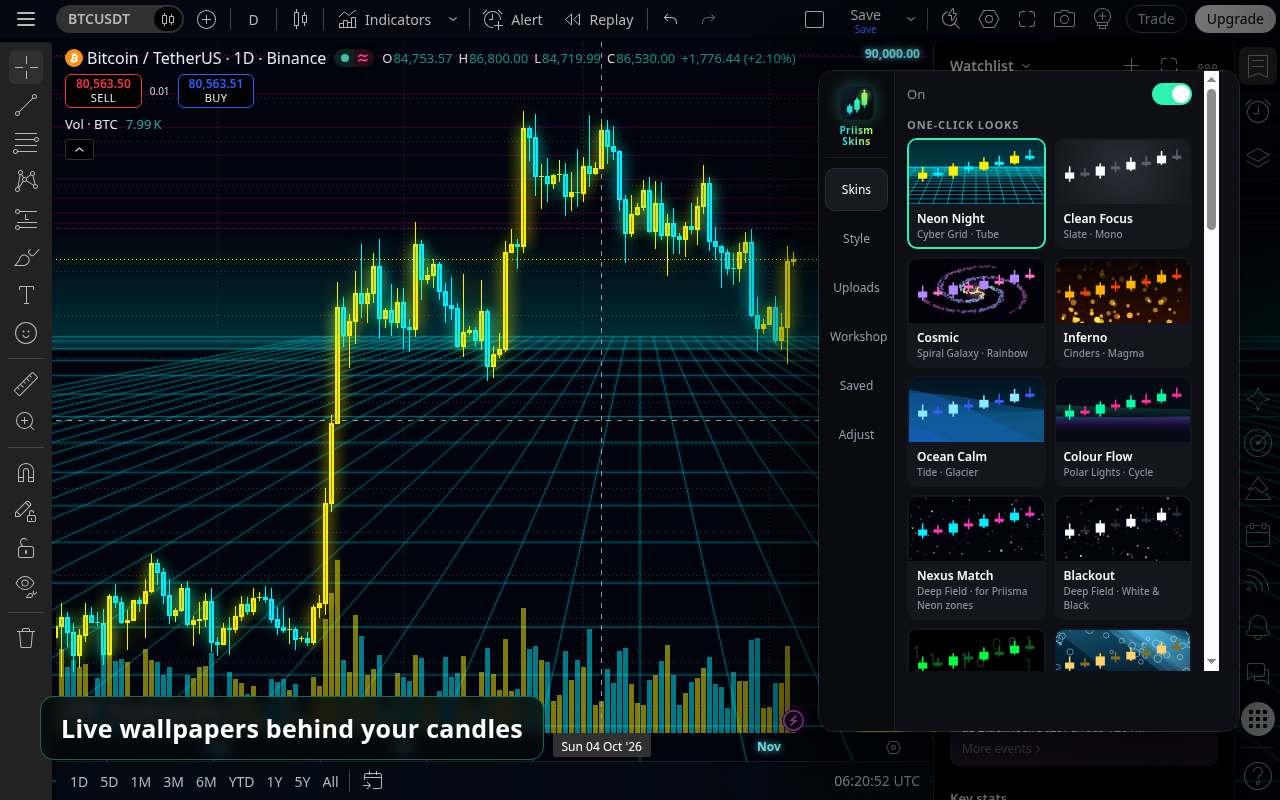
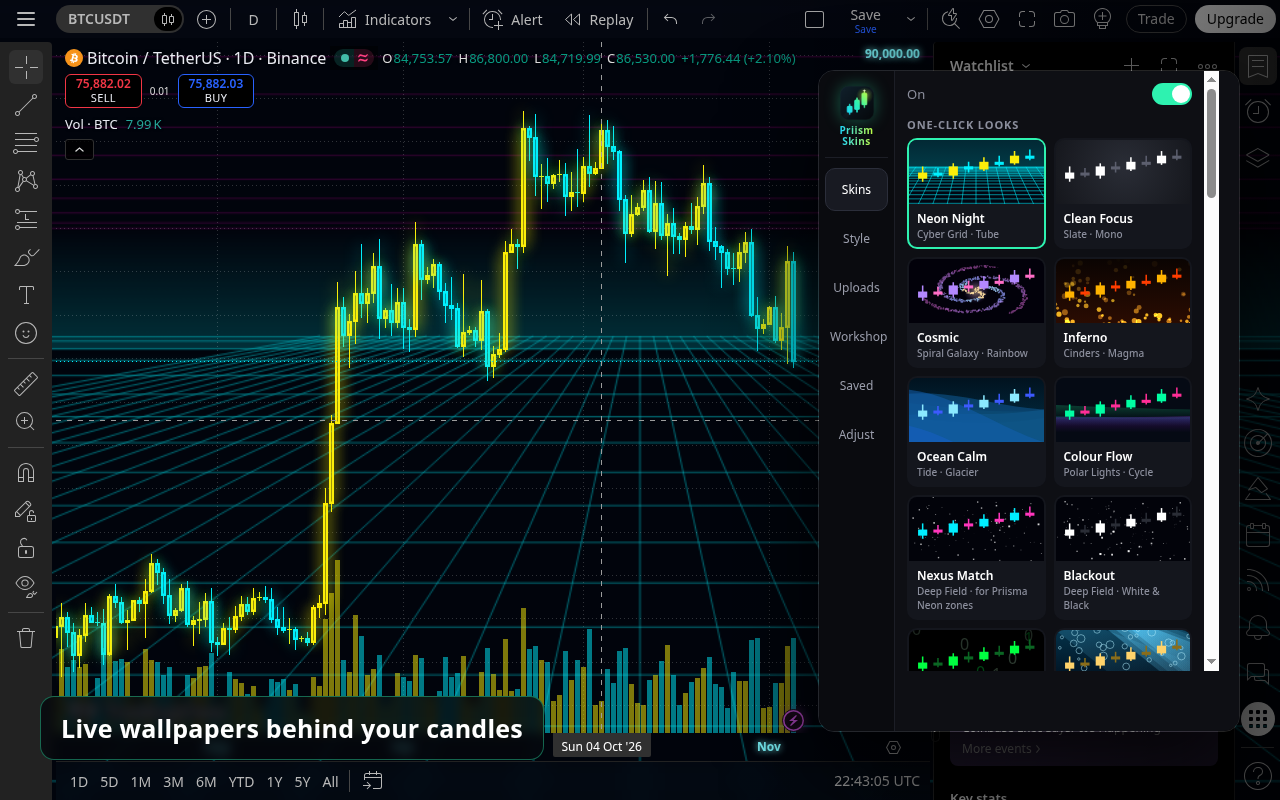
Live clip: custom length up to 2 min, auto-download, stop-early badge (v0.1.17)
- Length: presets 5s/10s/30s/1min/2min plus a custom seconds box (2-120).
- Bitrate steps down with length so long clips stay shareable.
- Every clip is saved by the page itself when recording ends, so the popup
  can be closed (it closes when you click away and used to lose the file).
- On-chart countdown badge; click it to stop and save early. Not in the recording.

Tested live: popup closed right after Record still downloads a valid WebM;
17s auto-save; stop-early; 9999s clamps to 120s (10/10).

diff --git a/src/content.js b/src/content.js
@@ -963,6 +963,7 @@
   // read, so for those the clip shows the chart + watermark moving but not the uploaded wallpaper. A clip is bigger
   // than a PNG, so we cap it (default ~5s) and downscale to keep it shareable.
   let clipRec = null;
+  const MAX_CLIP_SECONDS = 120;
   async function captureClip(seconds) {
     if (!cfg.enabled) return { ok: false, reason: "Turn Priism Skins on first." };
     if (clipRec) return { ok: false, reason: "Already recording a clip." };
@@ -982,25 +983,50 @@
     const mimes = ["video/webm;codecs=vp9", "video/webm;codecs=vp8", "video/webm"];
     const mime = mimes.find((m) => MediaRecorder.isTypeSupported && MediaRecorder.isTypeSupported(m)) || "";
     let rec;
-    try { rec = new MediaRecorder(stream, mime ? { mimeType: mime, videoBitsPerSecond: 6_000_000 } : undefined); }
+    // Any length from 2s to 2 minutes. Longer clips use a lower bitrate so the file stays shareable
+    // (about 4.5 MB for 10s, 10 MB for 60s, 15 MB for 2 min).
+    const dur = Math.max(2, Math.min(MAX_CLIP_SECONDS, +seconds || 5));
+    const bps = dur <= 10 ? 6_000_000 : dur <= 30 ? 3_500_000 : dur <= 60 ? 2_000_000 : 1_000_000;
+    try { rec = new MediaRecorder(stream, mime ? { mimeType: mime, videoBitsPerSecond: bps } : undefined); }
     catch { return { ok: false, reason: "Your browser can't record clips." }; }
     const chunks = [];
     rec.ondataavailable = (e) => { if (e.data && e.data.size) chunks.push(e.data); };
     clipRec = rec;
-    const dur = Math.max(2, Math.min(10, +seconds || 5));
+    // Every clip is saved by the page itself the moment it ends. The popup closes when you click away,
+    // so it must never be the thing that holds the file.
+    const autoSave = true;
+    // A small countdown badge on the chart. Click it to stop early. It is not part of the recording.
+    const badge = document.createElement("div");
+    badge.style.cssText = "position:fixed;z-index:2147483647;top:14px;left:50%;transform:translateX(-50%);padding:7px 14px;border-radius:999px;background:rgba(10,12,18,.88);color:#fff;font:600 13px system-ui,sans-serif;border:1px solid rgba(255,80,80,.7);cursor:pointer;box-shadow:0 6px 24px rgba(0,0,0,.5)";
+    badge.title = "Click to stop and save now";
+    document.documentElement.appendChild(badge);
+    const t0 = performance.now();
+    const paint = () => { const left = Math.max(0, Math.ceil(dur - (performance.now() - t0) / 1000)); badge.textContent = `\u25CF Recording ${left}s \u00B7 click to stop`; };
+    paint(); const badgeTimer = setInterval(paint, 250);
     return await new Promise((resolve) => {
-      let rafId = 0, done = false;
+      let rafId = 0, done = false, stopTimer = 0;
+      const stop = () => { clearTimeout(stopTimer); try { rec.state !== "inactive" && rec.stop(); } catch {} };
+      badge.onclick = stop;
+      const cleanup = () => { done = true; cancelAnimationFrame(rafId); clearTimeout(stopTimer); clearInterval(badgeTimer); badge.remove(); clipRec = null; };
       const draw = () => { if (done) return; try { compositeFrame(g, box, dpr, wmImg); } catch {} rafId = requestAnimationFrame(draw); };
       rec.onstop = async () => {
-        done = true; cancelAnimationFrame(rafId); clipRec = null;
+        cleanup();
         try { stream.getTracks().forEach((t) => t.stop()); } catch {}
         if (!chunks.length) return resolve({ ok: false, reason: "The browser blocked recording (a cross-origin chart)." });
         const blob = new Blob(chunks, { type: mime || "video/webm" });
+        if (autoSave) {
+          const q = parseTitle(), name = `priism-${((q && q.sym) || "chart").replace(/[^\w-]+/g, "")}-${Math.round((performance.now() - t0) / 1000)}s.webm`;
+          const url = URL.createObjectURL(blob), a = document.createElement("a");
+          a.href = url; a.download = name; document.documentElement.appendChild(a); a.click(); a.remove();
+          setTimeout(() => URL.revokeObjectURL(url), 60000);
+          flash("Clip saved to your downloads");
+          return resolve({ ok: true, saved: true, name, mediaMissed, bytes: blob.size, w: W, h: H });
+        }
         resolve({ ok: true, url: await blobToDataURL(blob), mediaMissed, bytes: blob.size, w: W, h: H });
       };
-      rec.onerror = () => { done = true; cancelAnimationFrame(rafId); clipRec = null; resolve({ ok: false, reason: "Recording failed." }); };
-      try { rec.start(); draw(); setTimeout(() => { try { rec.state !== "inactive" && rec.stop(); } catch {} }, dur * 1000); }
-      catch { done = true; clipRec = null; resolve({ ok: false, reason: "Recording failed." }); }
+      rec.onerror = () => { cleanup(); resolve({ ok: false, reason: "Recording failed." }); };
+      try { rec.start(); draw(); stopTimer = setTimeout(stop, dur * 1000); }
+      catch { cleanup(); resolve({ ok: false, reason: "Recording failed." }); }
     });
   }
 

diff --git a/popup/popup.js b/popup/popup.js
@@ -756,18 +756,25 @@ if ($("snapBtn")) $("snapBtn").onclick = async () => {
 
 // ---------- live clip (short animated WebM of the chart + moving wallpaper) ----------
 let clipSecs = 5;
-if ($("clipLen")) seg("clipLen", [[3, "3s"], [5, "5s"], [8, "8s"]], () => clipSecs, (v) => { clipSecs = v; });
+if ($("clipLen")) seg("clipLen", [[5, "5s"], [10, "10s"], [30, "30s"], [60, "1 min"], [120, "2 min"]], () => clipSecs, (v) => { clipSecs = v; if ($("clipCustom")) $("clipCustom").value = ""; });
+// a custom length (2-120 s) overrides the preset
+const clipLength = () => { const c = Math.round(+($("clipCustom") && $("clipCustom").value)); return c >= 2 ? Math.min(120, c) : clipSecs; };
 if ($("clipBtn")) $("clipBtn").onclick = async () => {
   const msg = $("clipMsg"), prev = $("clipPreview"), vid = $("clipVid"), btn = $("clipBtn");
   const show = (t, ok) => { msg.style.display = ""; msg.textContent = t; msg.style.color = ok === false ? "#ff8a8a" : ""; };
   if (!EXT_MODE || IS_TAB) return show("Open this on a TradingView chart tab to record.", false);
+  const secs = clipLength();
   prev.style.display = "none"; btn.disabled = true;
-  let left = clipSecs; show(`Recording… ${left}s`);
-  const tick = setInterval(() => { left--; if (left > 0) show(`Recording… ${left}s`); }, 1000);
-  const r = await tabMsgAnyFrame({ ws: "clip", seconds: clipSecs });
+  let left = secs; show(`Recording ${secs}s. You can close this panel; the clip downloads by itself when it ends.`);
+  const tick = setInterval(() => { left--; }, 1000);
+  const r = await tabMsgAnyFrame({ ws: "clip", seconds: secs });
   clearInterval(tick); btn.disabled = false;
   if (!r) return show("Couldn't reach the chart. Open your TradingView chart, make sure Priism Skins is on here, then try again.", false);
   if (!r.ok) return show(r.reason || "Couldn't record the clip.", false);
+  if (r.saved) {
+    const mb = ((r.bytes || 0) / 1048576).toFixed(1);
+    return show(`Saved ${r.name} (${mb} MB) to your downloads.` + (r.mediaMissed ? " (Your uploaded wallpaper renders in a protected frame, so it isn't in the clip; the chart + watermark are.)" : ""), true);
+  }
   vid.src = r.url; prev.href = r.url;
   const sym = (await tabMsg({ ws: "symbol" }).catch(() => null)) || {};
   prev.download = `priism-${(sym.symbol || "chart").replace(/[^\w-]+/g, "")}.webm`;

diff --git a/popup/popup.html b/popup/popup.html
@@ -178,10 +178,11 @@
       <div class="box" style="margin-top:14px">
         <div class="inline">
           <strong style="font-size:13px">Live clip</strong>
-          <div class="seg" id="clipLen" style="margin-left:auto"></div>
-          <button class="primary" id="clipBtn">Record</button>
+          <button class="primary" id="clipBtn" style="margin-left:auto">Record</button>
         </div>
-        <p class="hint">Records a short animated clip (WebM) of your chart with the live wallpaper moving — perfect for sharing a vibe that a still can't show. It records for the chosen length, then gives you the file.</p>
+        <div class="row"><span>Length</span><div class="seg" id="clipLen"></div></div>
+        <div class="row"><span>Custom</span><input id="clipCustom" type="number" min="2" max="120" step="1" placeholder="seconds (2–120)" style="width:140px" /><small class="hint" style="margin:0">overrides the length above</small></div>
+        <p class="hint">Records an animated clip (WebM) of your chart with the live wallpaper moving, from 2 seconds up to 2 minutes. Keep the chart tab visible while it records. Click Record, then close this panel if you like: the clip downloads by itself when it ends. A badge on the chart shows the countdown; click it to stop and save early.</p>
         <p class="hint" id="clipMsg" style="display:none"></p>
         <a id="clipPreview" href="#" download="priism-chart.webm" style="display:none"><video id="clipVid" autoplay loop muted playsinline style="width:100%;border-radius:8px;border:1px solid var(--line,#2a3142)"></video></a>
       </div>

diff --git a/CHANGELOG.md b/CHANGELOG.md
@@ -1,5 +1,9 @@
 # Changelog
 
+## 0.1.17 (2026-11-05)
+- Live clip: record for as long as you like, from 2 seconds up to 2 minutes. Pick 5s / 10s / 30s / 1 min / 2 min, or type your own length.
+- Live clip now downloads by itself the moment recording ends, so you can click Record and close the panel. A countdown badge on the chart shows the time left; click it to stop and save early.
+
 ## 0.1.16 (2026-11-05)
 - Fix: shortened the extension's description so it meets the Chrome Web Store's 132-character limit (the store rejected the upload otherwise). No feature changes.
 
